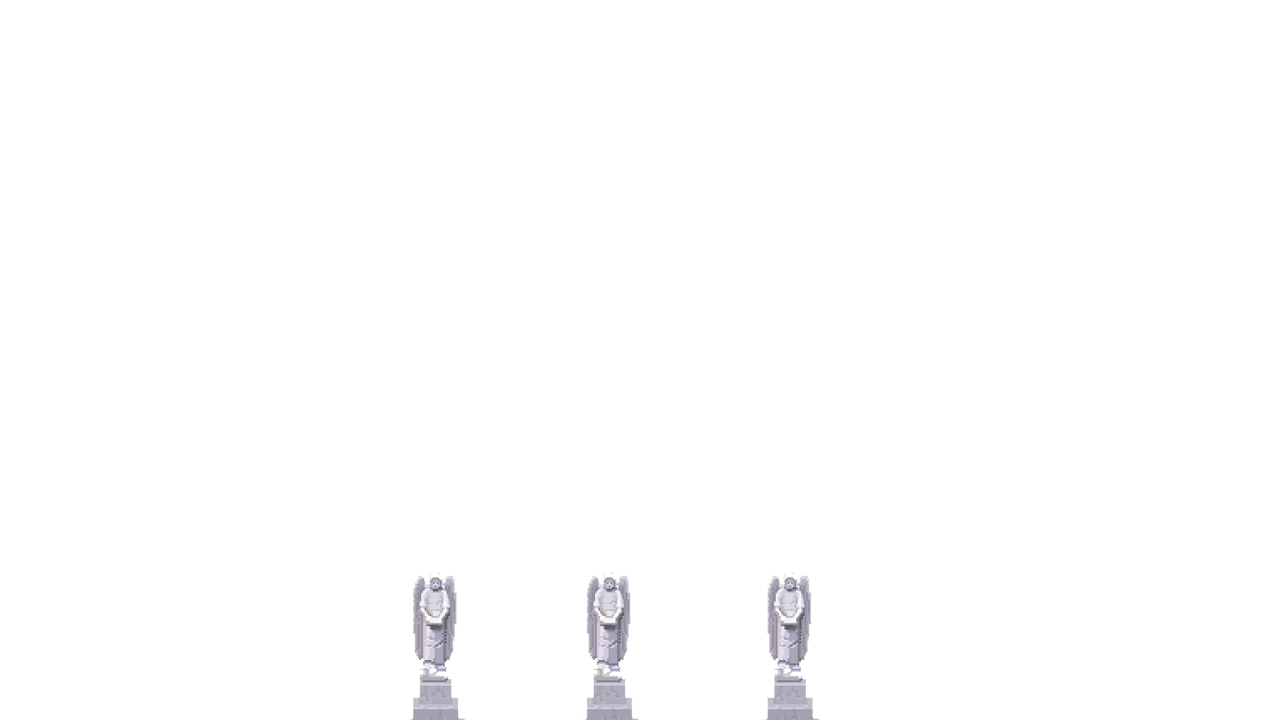
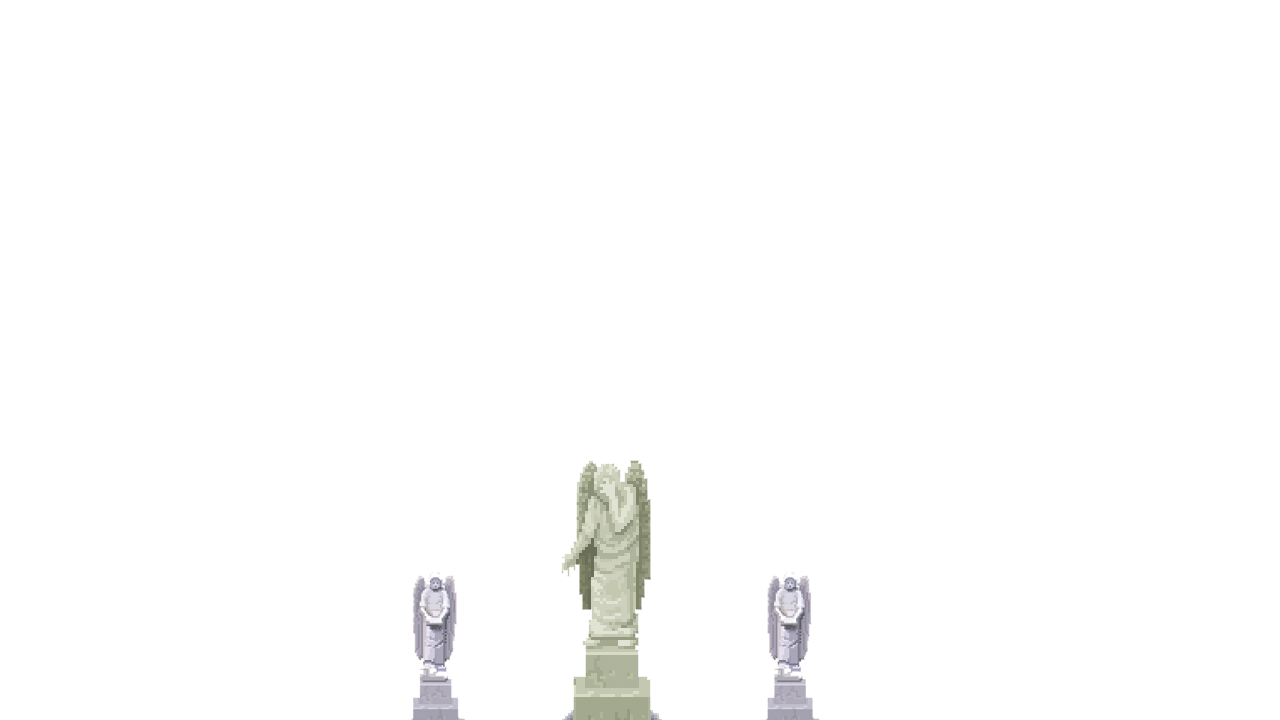
Lots of changes

Changed region(s): [[0.4375, 0.6417, 0.5312, 1.0]]

diff --git a/core/src/com/djdarkside/box2dapp/utils/ParallaxForeground.java b/core/src/com/djdarkside/box2dapp/utils/ParallaxForeground.java
@@ -30,21 +30,24 @@ public class ParallaxForeground {
         this.width = width;
         this.height = height;
         camera = app.camera;//new OrthographicCamera(width, height);
-        batch = new SpriteBatch();
+        batch = app.batch;
     }
 
 
     // Needs to be rendered after all maps and backgrounds
     public void render(float delta) {
-        this.camera.position.add(speed.x * delta, speed.y * delta, 0);
+        //this.camera.position.add(speed.x * delta, speed.y * delta, 0);
         for(ParallaxLayer layer : layers){
-            //batch.setProjectionMatrix(camera.projection);
             batch.setProjectionMatrix(camera.projection);
+            //batch.setProjectionMatrix(camera.combined);
             batch.begin();
             float currentX = -camera.position.x * layer.parallaxRatio.x % (layer.region.getRegionWidth() + layer.padding.x);
             if (speed.x < 0) currentX += -(layer.region.getRegionWidth() + layer.padding.x);
             do {
-                float currentY = -camera.position.y * layer.parallaxRatio.y % (layer.region.getRegionHeight() + layer.padding.y);
+                //This seems to fix the layers moving up and down on the y axis
+                float currentY = -camera.position.y;
+                //Original
+                //float currentY = -camera.position.y * layer.parallaxRatio.y % (layer.region.getRegionHeight() + layer.padding.y);
                 if (speed.y < 0) currentY += -(layer.region.getRegionHeight() + layer.padding.y);
                 do {
                     batch.draw(layer.region,

diff --git a/core/src/com/djdarkside/box2dapp/utils/ParallaxBackground.java b/core/src/com/djdarkside/box2dapp/utils/ParallaxBackground.java
@@ -1,5 +1,6 @@
 package com.djdarkside.box2dapp.utils;
 
+import com.badlogic.gdx.Gdx;
 import com.badlogic.gdx.graphics.Camera;
 import com.badlogic.gdx.graphics.OrthographicCamera;
 import com.badlogic.gdx.graphics.g2d.SpriteBatch;
@@ -28,10 +29,8 @@ public class ParallaxBackground {
         this.app = app;
         this.layers = layers;
         this.speed.set(speed);
-        this.width = width;
-        this.height = height;
         camera = app.camera;//new OrthographicCamera(width, height);
-        batch = new SpriteBatch();
+        batch = app.batch;//new SpriteBatch();
     }
     //Original
     //public ParallaxBackground(ParallaxLayer[] layers,float width,float height,Vector2 speed){
@@ -42,10 +41,11 @@ public class ParallaxBackground {
     //}
 
     public void render(float delta){
-        this.camera.position.add(speed.x * delta, speed.y * delta, 0);
+        //delta = Gdx.graphics.getDeltaTime();
+        //this.camera.position.add(speed.x * delta, speed.y * delta, 0);
         for(ParallaxLayer layer : layers){
-            //batch.setProjectionMatrix(camera.projection);
             batch.setProjectionMatrix(camera.projection);
+            //batch.setProjectionMatrix(camera.combined);
             batch.begin();
             float currentX = -camera.position.x * layer.parallaxRatio.x % (layer.region.getRegionWidth() + layer.padding.x);
             if (speed.x < 0) currentX += -(layer.region.getRegionWidth() + layer.padding.x);

diff --git a/core/src/com/djdarkside/box2dapp/screens/TestStage2.java b/core/src/com/djdarkside/box2dapp/screens/TestStage2.java
@@ -109,11 +109,12 @@ public class TestStage2 implements Screen {
                 new ParallaxLayer(bg5c, new Vector2(.24f,0), new Vector2(0,0), new Vector2(0, 400)),
                 new ParallaxLayer(bg5b, new Vector2(.32f,0), new Vector2(0,0), new Vector2(0, 400)),
                 new ParallaxLayer(bg5a, new Vector2(.64f,0), new Vector2(0,0), new Vector2(0, 320)),
-        }, Constants.V_WIDTH, Constants.V_HEIGHT,new Vector2(285,0));
+        }, 0, 0,new Vector2(285,0));
 
         forg = new ParallaxForeground(app, new ParallaxLayer[]{
-                new ParallaxLayer(col, new Vector2(1.85f,0), new Vector2(250,0), new Vector2()),
+                new ParallaxLayer(col, new Vector2(1.85f,0), new Vector2(500,175), new Vector2()),
         }, Constants.V_WIDTH, 0, new Vector2(0,0));
+
     }
 
 
